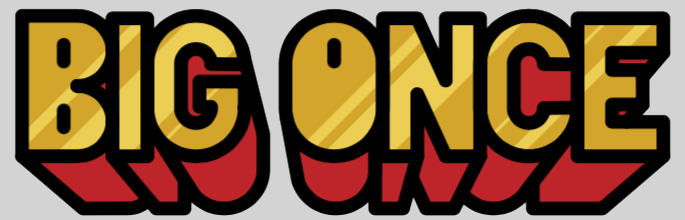
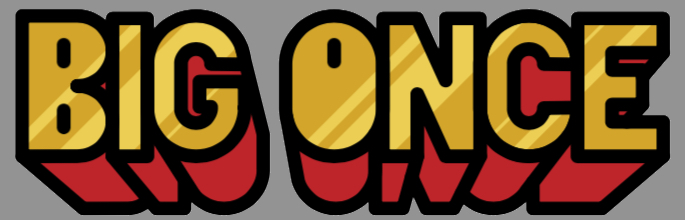
Darker Background

Changed region(s): [[0.0, 0.0, 1.0, 1.0]]

diff --git a/resources/css/style.css b/resources/css/style.css
@@ -18,7 +18,7 @@
 
 html {
   font-size: 16px;
-  background-color: #D3D3D3;
+  background-color: #939393;
 }
 
 /*header styling*/
@@ -32,7 +32,7 @@ html {
 .social-icons{
   position: fixed;
   right: 1rem;
-  top: 100px;
+  top: 28%;
   display: flex;
   flex-direction: column;
   justify-content: space-between;
@@ -61,7 +61,7 @@ html {
 }
 
 .social-icons i {
-  font-size: 2.5rem;
+  font-size: 3.5rem;
   padding: 1rem 0rem;
   margin: 0 2rem;
   color: black;
